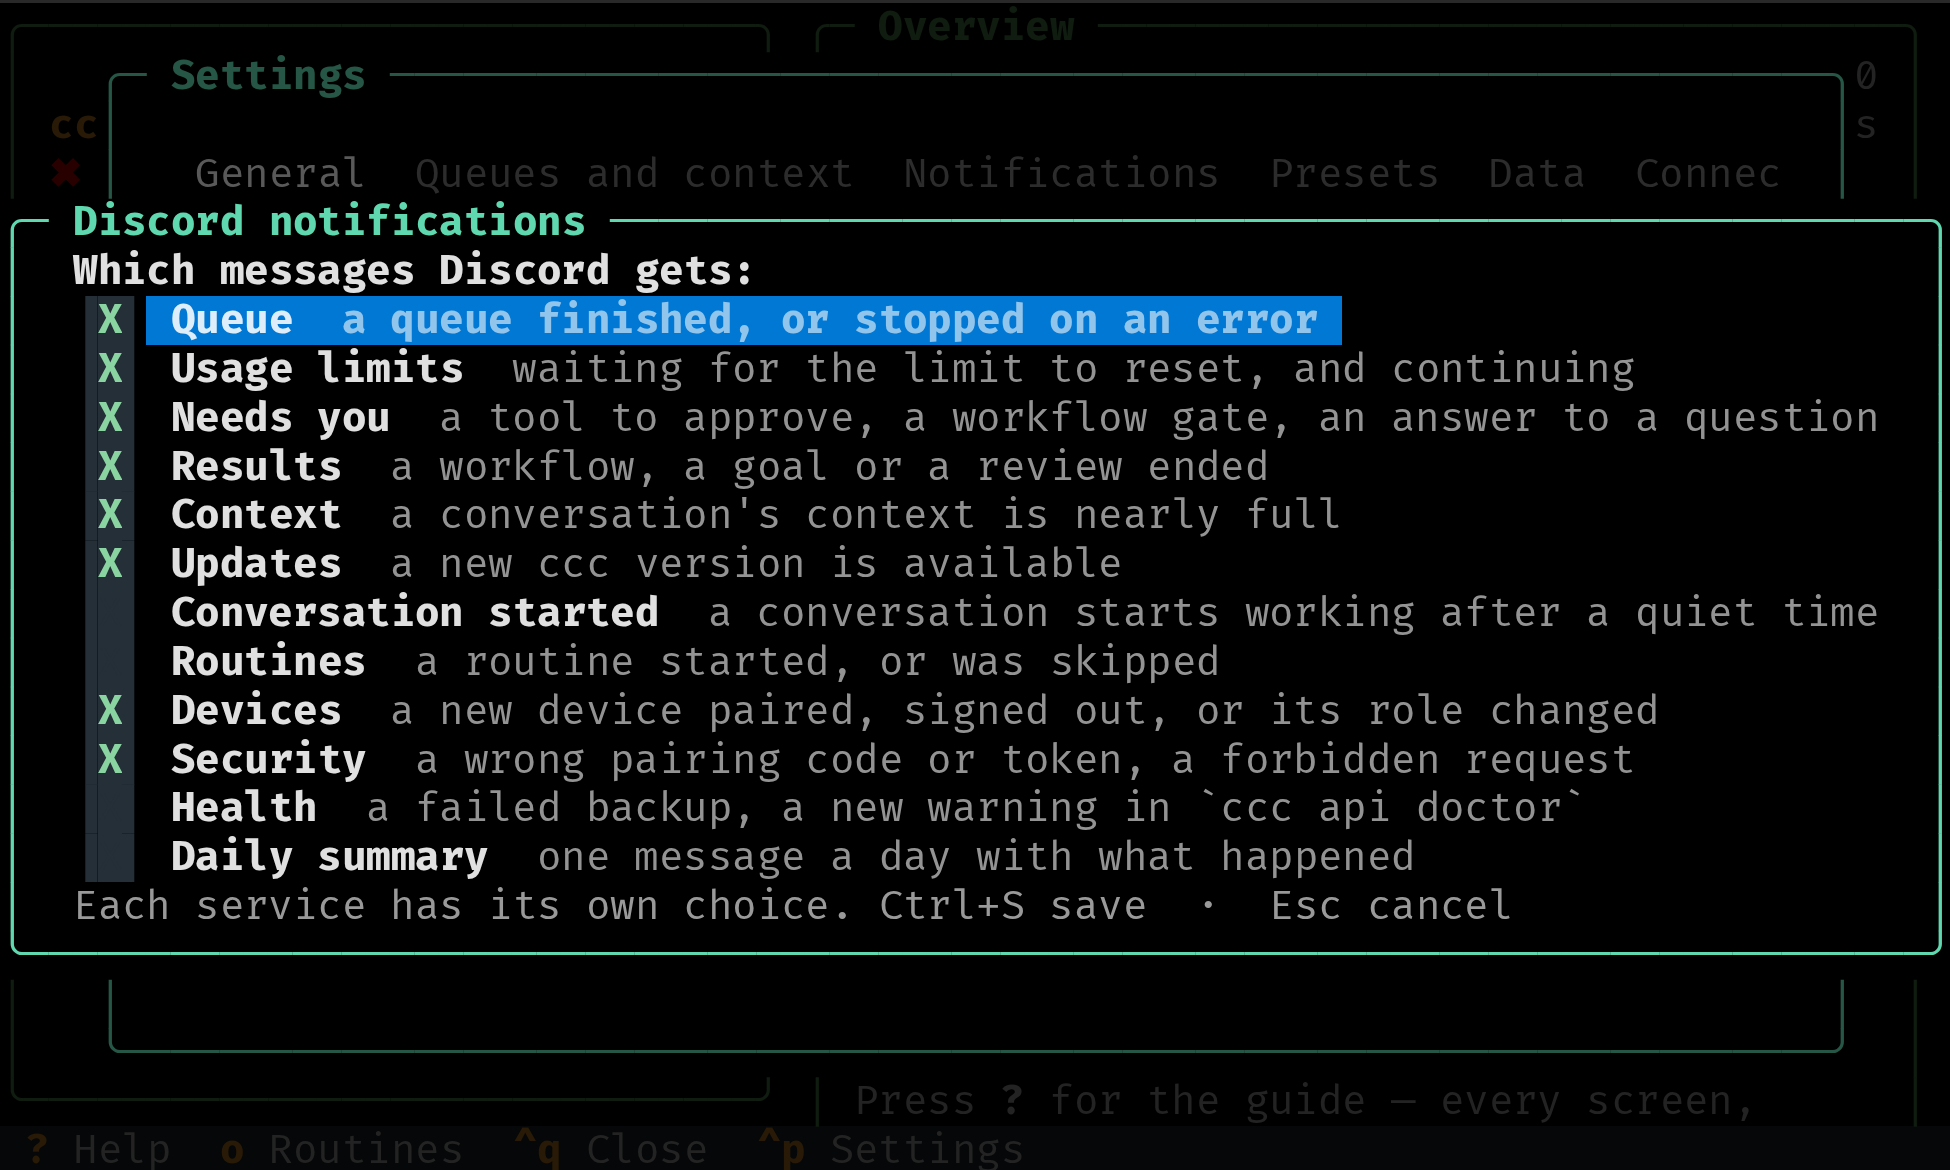
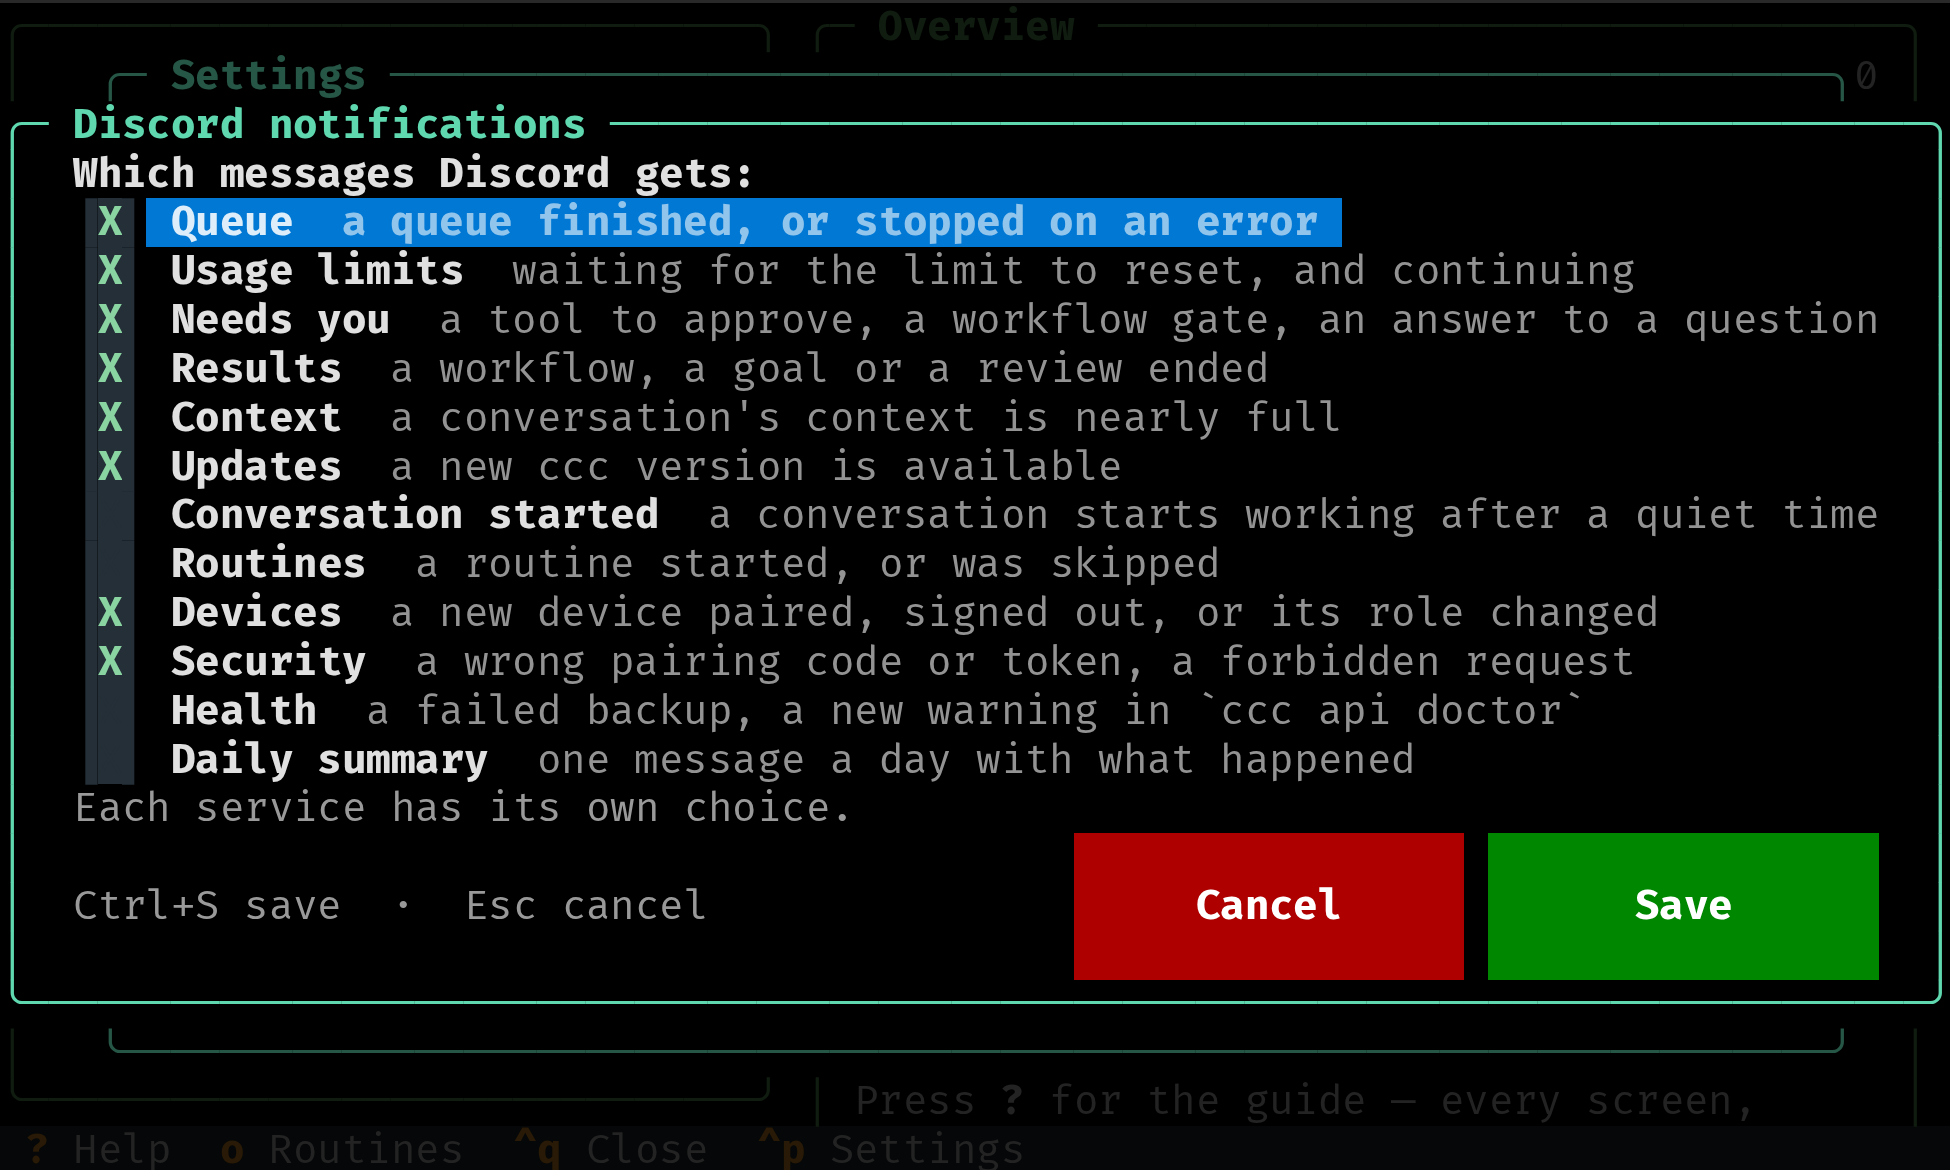
The notification messages window has Cancel and Save buttons like Settings (#200)

diff --git a/src/ccc/tui/notify_categories.py b/src/ccc/tui/notify_categories.py
@@ -4,9 +4,9 @@ service's section in Settings; saved at once with Ctrl+S."""
 from __future__ import annotations
 
 from rich.text import Text
-from textual.containers import Container, VerticalScroll
+from textual.containers import Container, Horizontal, VerticalScroll
 from textual.screen import ModalScreen
-from textual.widgets import Checkbox, Static
+from textual.widgets import Button, Checkbox, Static
 
 from ccc import keymap
 from ccc.i18n import _
@@ -44,6 +44,10 @@ class NotifyCategoriesModal(ModalScreen):
     NotifyCategoriesModal .modal-hint {
         color: $text-muted;
     }
+    NotifyCategoriesModal .modal-keys {
+        width: 1fr;
+        padding-top: 1;
+    }
     /* Unticked: no faint X that reads as ticked; ticked: bright X. */
     NotifyCategoriesModal Checkbox > .toggle--button {
         color: $panel;
@@ -73,13 +77,23 @@ class NotifyCategoriesModal(ModalScreen):
         box = Container(
             Static(_("Which messages {service} gets:").format(service=SERVICE_NAMES[self.channel]), classes="modal-label"),
             VerticalScroll(*rows),
-            Static(_("Each service has its own choice. Ctrl+S save  ·  Esc cancel"), classes="modal-hint"),
+            Static(_("Each service has its own choice."), classes="modal-hint"),
+            Horizontal(
+                Static(_("Ctrl+S save  ·  Esc cancel"), classes="modal-hint modal-keys"),
+                Button(_("Cancel"), id="notify-cancel", classes="modal-cancel"),
+                Button(_("Save"), id="notify-save", classes="modal-submit"),
+                classes="modal-buttons",
+            ),
         )
         box.border_title = _("{service} notifications").format(service=SERVICE_NAMES[self.channel])
         yield box
 
     def on_mount(self) -> None:
         self.query_one(Checkbox).focus()
+
+    def on_button_pressed(self, event: Button.Pressed) -> None:
+        event.stop()
+        (self.action_save if event.button.id == "notify-save" else self.action_cancel)()
 
     def action_save(self) -> None:
         set_category_states(self.storage, self.channel,

diff --git a/tests/test_tui_settings.py b/tests/test_tui_settings.py
@@ -558,4 +558,10 @@ async def test_the_messages_window_fits_a_small_terminal(tmp_path):
         app.screen.query_one("#notify-health", Checkbox).focus()  # the last ones scroll into view
         await pilot.pause()
         assert app.screen.query_one("#notify-health", Checkbox).region.height == 1
-        assert app.screen.query_one(".modal-hint").region.bottom <= 24
+        for button in ("#notify-cancel", "#notify-save"):  # the buttons are on screen, like in Settings
+            region = app.screen.query_one(button).region
+            assert 0 < region.bottom <= 24 and 0 < region.right <= 80
+        app.screen.query_one("#notify-queue", Checkbox).value = False
+        app.screen.query_one("#notify-save").press()
+        await pilot.pause()
+        assert isinstance(app.screen, SettingsModal)

diff --git a/src/ccc/i18n/cs.py b/src/ccc/i18n/cs.py
@@ -1581,8 +1581,7 @@ CS: dict[str, str] = {
     "Daily summary": "Denní souhrn",
     "one message a day with what happened": "jedna zpráva denně o tom, co se stalo",
     "▶ {name}: starts working — {prompt}": "▶ {name}: začíná pracovat — {prompt}",
-    "Each service has its own choice. Ctrl+S save  ·  Esc cancel":
-        "Každá služba má svůj vlastní výběr. Ctrl+S uložit  ·  Esc zrušit",
+    "Each service has its own choice.": "Každá služba má svůj vlastní výběr.",
     "{service} notifications": "Oznámení na {service}",
     "Which messages {service} gets:": "Které zprávy dostane {service}:",
     "Choose messages…": "Vybrat zprávy…",
